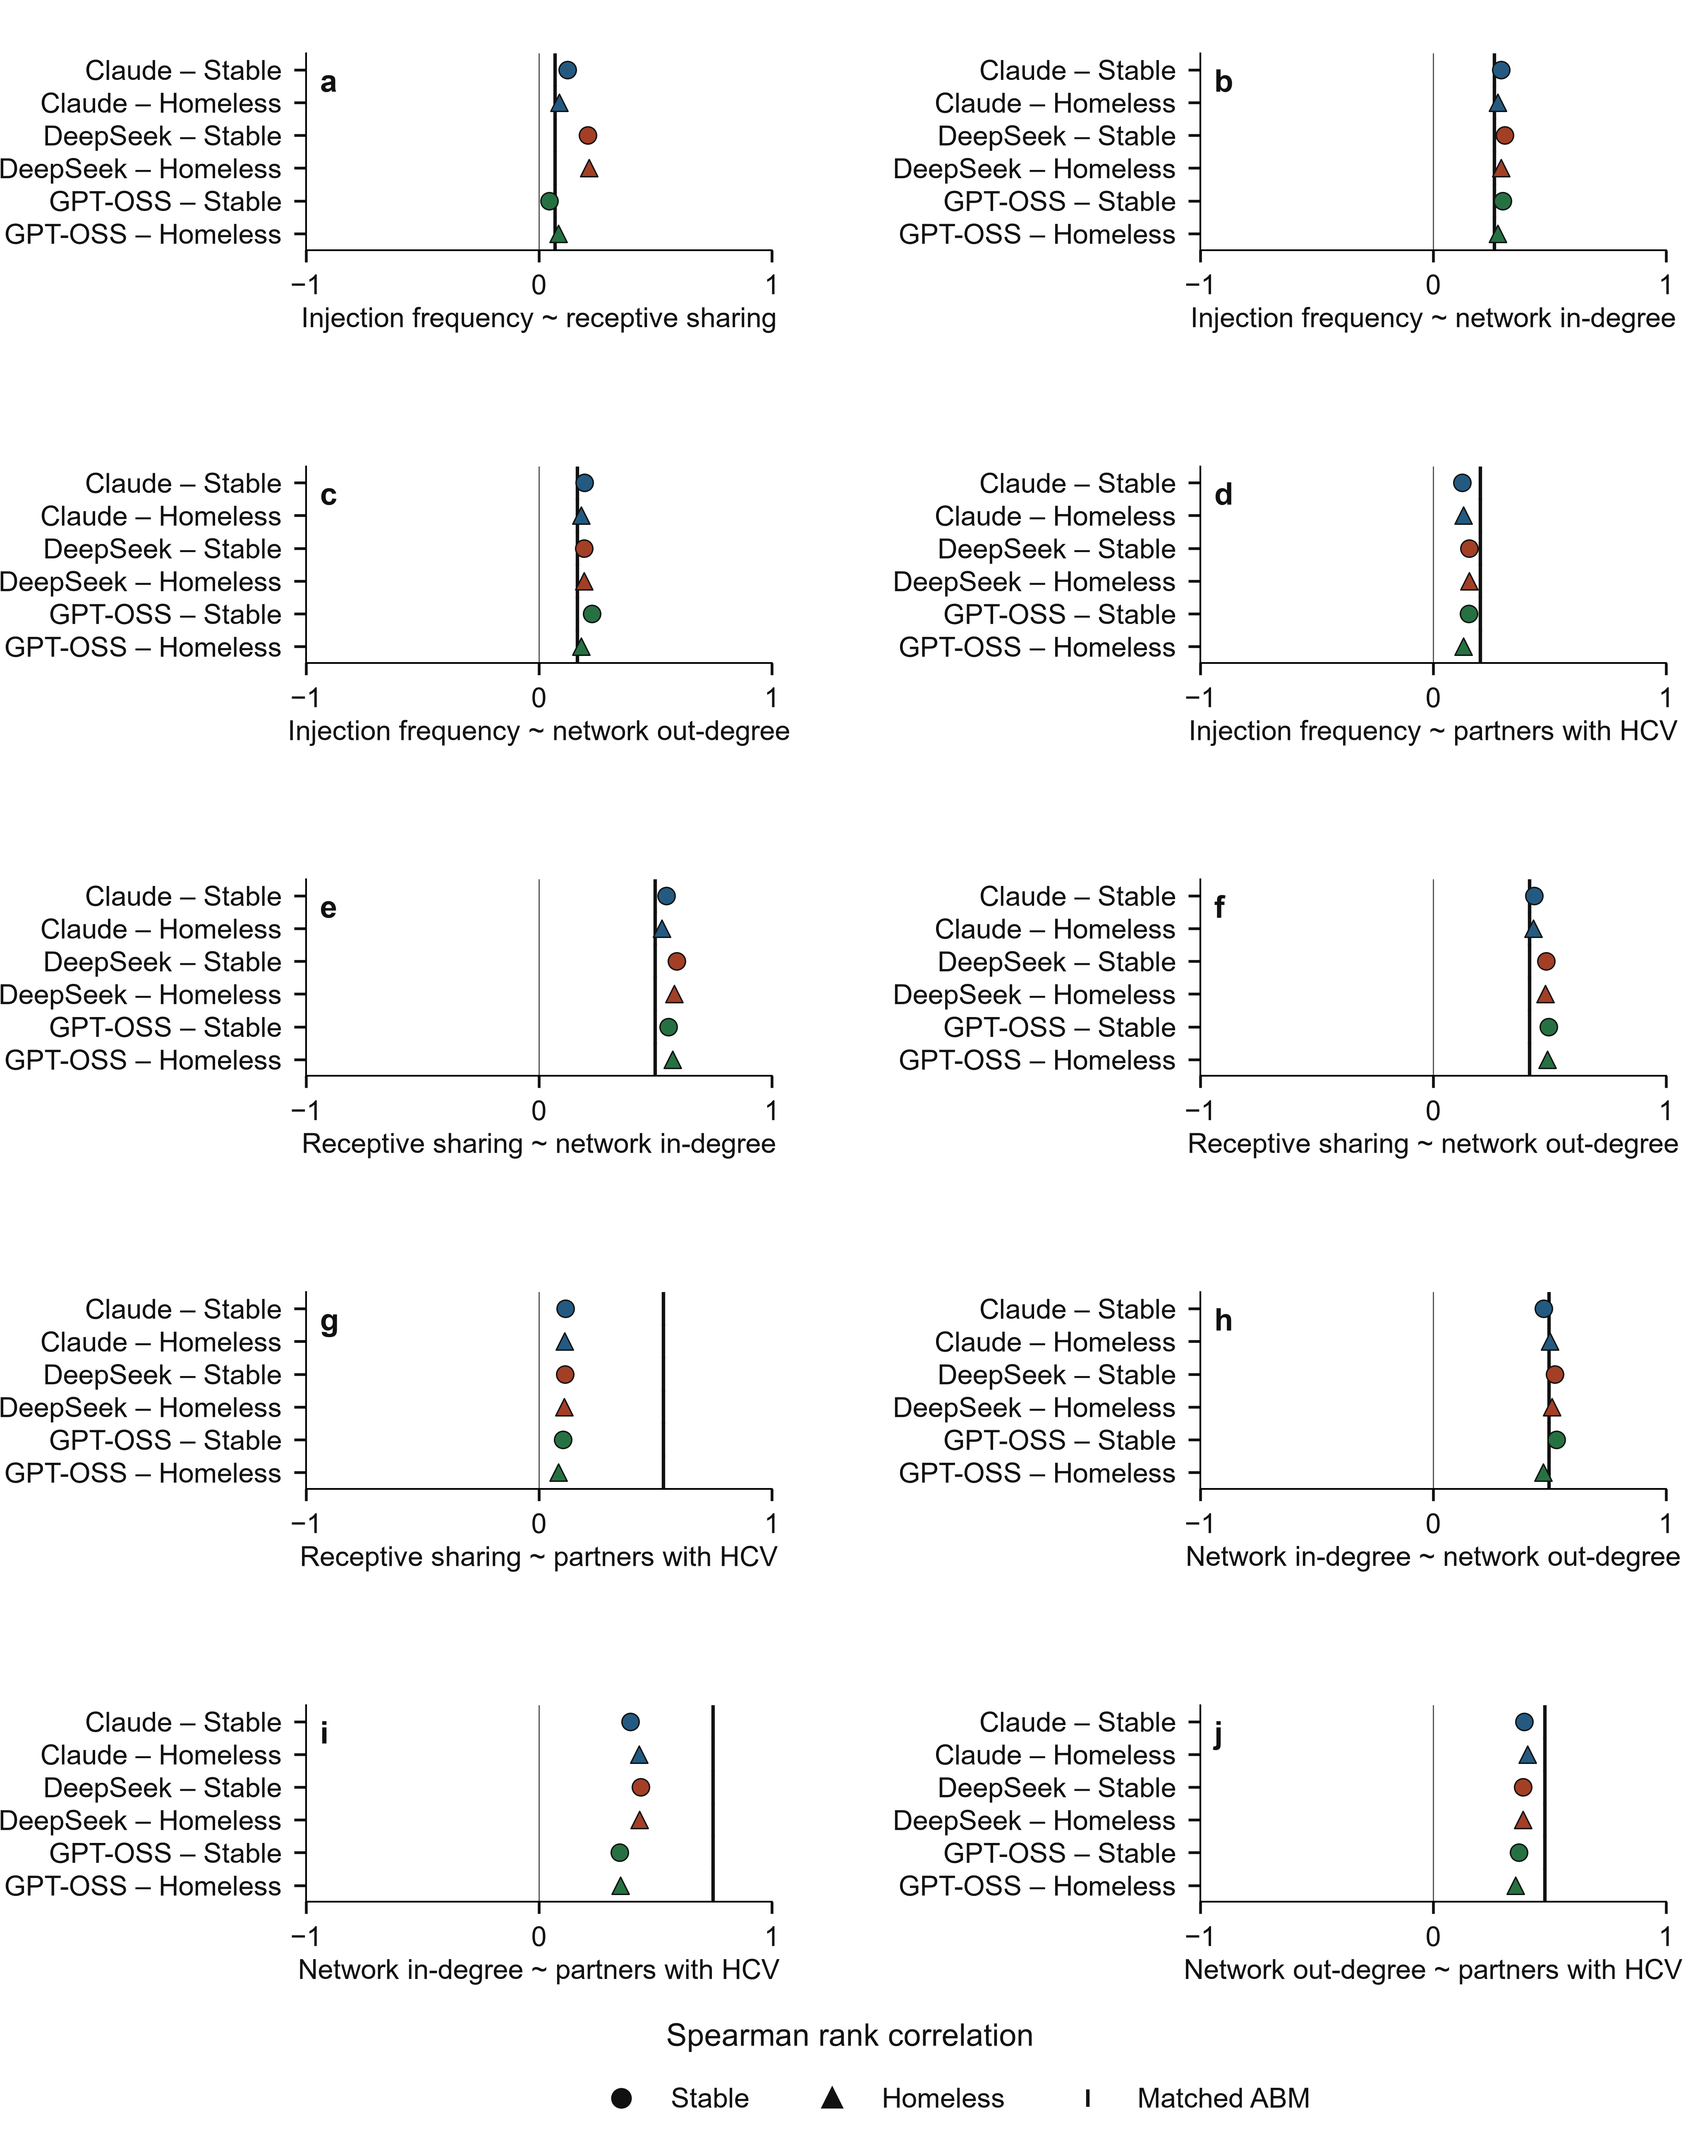
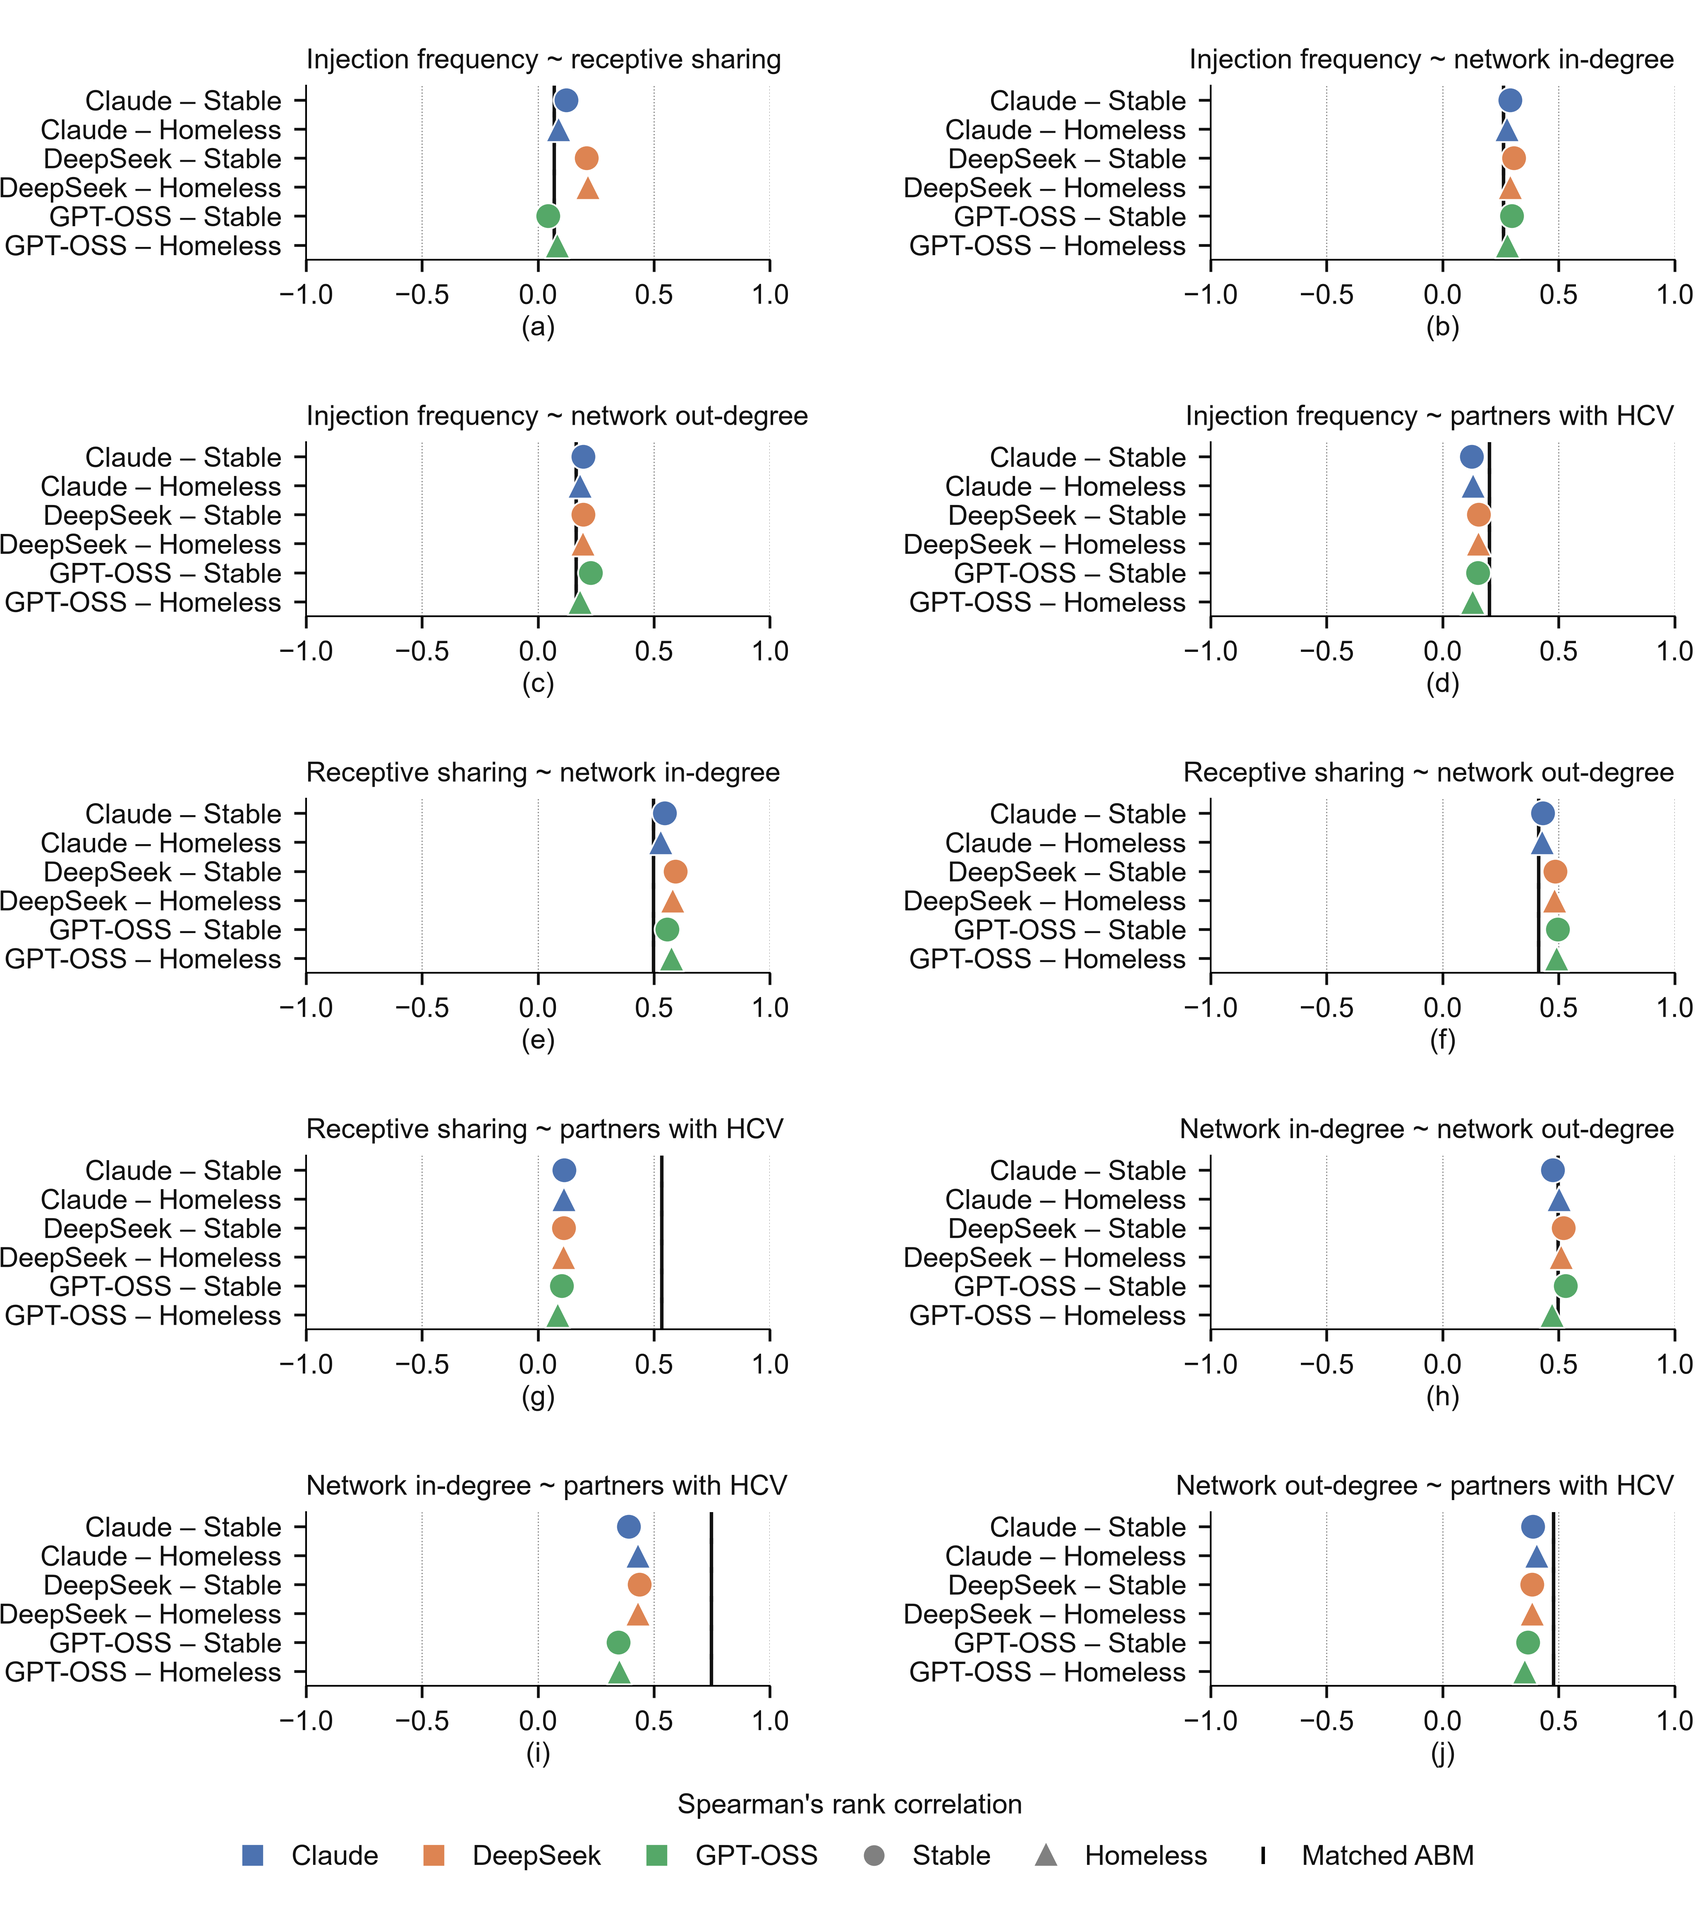
Restore earlier figure styling at final publication font sizes

diff --git a/artwork.py b/artwork.py
@@ -119,9 +119,10 @@ def _knowledge_text(row):
     lines = [f"{direction} {row.evidence_quality}"]
     if pd.notna(row.value):
         measure = "" if pd.isna(row.measure) else str(row.measure)
-        lines.append(f"{measure} {row.value:.2f}".strip())
+        estimate = f"{measure} {row.value:.2f}".strip()
         if pd.notna(row.lower_ci) and pd.notna(row.upper_ci):
-            lines.append(f"({row.lower_ci:.2f}–{row.upper_ci:.2f})")
+            estimate += f" ({row.lower_ci:.2f}–{row.upper_ci:.2f})"
+        lines.append(estimate)
     return "\n".join(lines)
 
 
@@ -133,18 +134,18 @@ def draw_association_table(kind, knowledge, housing, correlations):
     """Retain the original banded comparison layout at final publication size."""
     configure_artwork()
     pairs = [pair for pair in EXPECTED if (pair[0] == TERMS["Homeless"]) == (kind == "housing")]
-    # Use taller rows, without changing column widths or shrinking the artwork.
-    # A two-row legend frees vertical space for S1's 23 associations.
+    # Preserve the original compact, banded table style. Allocate more width
+    # to the two-line knowledge cells so estimates and intervals stay together.
     if kind == "housing":
-        row_mm, header_mm, legend_mm = 11, 19, 17.5
+        row_mm, header_mm, legend_mm = 7.5, 23, 17.5
     else:
-        row_mm, header_mm, legend_mm = 9, 16.4, 7.5
+        row_mm, header_mm, legend_mm = 6.5, 23, 21
     margin_mm = 1.5
     height = 2*margin_mm + header_mm + row_mm*len(pairs) + legend_mm
     fig = plt.figure(figsize=(WIDTH_MM/MM_PER_INCH, height/MM_PER_INCH), dpi=100)
     ax = fig.add_axes([0, 0, 1, 1])
     ax.set_xlim(0, WIDTH_MM); ax.set_ylim(0, height); ax.axis("off")
-    left, label_w, expected_w, knowledge_w, output_w = 1.5, 52.8, 8, 17.2, 19.2
+    left, label_w, expected_w, knowledge_w, output_w = 1.5, 30.2, 6, 27.2, 17.4
     knowledge_x = left+label_w+expected_w
     output_x = knowledge_x+3*knowledge_w+1
     body_top = height-margin_mm-header_mm
@@ -165,13 +166,14 @@ def draw_association_table(kind, knowledge, housing, correlations):
         for j, label in enumerate(headers):
             ax.text(origin+(j+.5)*width, height-9, label, ha="center", va="center",
                     fontsize=8, linespacing=1)
-    ax.add_patch(Rectangle((left, body_top+.45), WIDTH_MM-2*left, 5.2,
+    ax.add_patch(Rectangle((left, body_top+.45), WIDTH_MM-2*left, 9,
                            facecolor="#B0B8C4", edgecolor="none"))
-    ax.text(knowledge_x+1.5*knowledge_w, body_top+3, "Direction + evidence + estimate",
-            ha="center", va="center", fontsize=8, style="italic")
-    method = "Paired $d_z$ + 95% bootstrap CI" if kind == "housing" else "Spearman's rank correlation"
-    ax.text(output_x+1.5*output_w, body_top+3, method,
-            ha="center", va="center", fontsize=8, style="italic")
+    ax.text(knowledge_x+1.5*knowledge_w, body_top+5,
+            "Direction + LLM-rated evidence strength\n+ LLM-derived association estimate",
+            ha="center", va="center", fontsize=8, style="italic", linespacing=1.1)
+    method = "Paired Cohen's $d_z$\n+ 95% bootstrap CI" if kind == "housing" else "Spearman's rank correlation"
+    ax.text(output_x+1.5*output_w, body_top+5, method,
+            ha="center", va="center", fontsize=8, style="italic", linespacing=1.1)
 
     def background(x, y, width, row_height, status):
         patch = Rectangle((x, y), width, row_height, facecolor=palette[status],
@@ -191,7 +193,7 @@ def draw_association_table(kind, knowledge, housing, correlations):
         background(x+.2, y+.2, width-.4, row_mm-.4, status)
         lines = text.split("\n")
         # Keep the direction/effect at 8 pt and reduce only estimate/CI detail.
-        spacing_mm = 2.85 if kind == "housing" else 2.6
+        spacing_mm = 2.8
         for index, line in enumerate(lines):
             offset = ((len(lines)-1)/2-index)*spacing_mm
             artist = ax.text(x+width/2, y+row_mm/2+offset, line, ha="center", va="center",
@@ -208,9 +210,12 @@ def draw_association_table(kind, knowledge, housing, correlations):
                                    facecolor="#F0F4F8", edgecolor="none", zorder=0))
         ax.add_patch(Rectangle((left+label_w, y), expected_w, row_mm,
                                facecolor="#ECEFF1", edgecolor="none", zorder=0))
-        label = ax.text(left+.3, y+row_mm/2,
-                        _pair_label(a, b), ha="left", va="center",
-                        fontsize=8, color="#000000", zorder=3)
+        # Keep each variable intact; wrap only at the pair separator when needed.
+        label_text = _pair_label(a, b)
+        label = ax.text(left+.3, y+row_mm/2, label_text, ha="left", va="center",
+                        fontsize=8, color="#000000", zorder=3, linespacing=1.05)
+        if label.get_window_extent(fig.canvas.get_renderer()).width > (label_w-.6)*fig.dpi/MM_PER_INCH:
+            label.set_text(label_text.replace(" ~ ", " ~\n"))
         cell_records.append((label, label_w-.6, row_mm-.4))
         ax.text(left+label_w+expected_w/2, y+row_mm/2, expected,
                 ha="center", va="center", fontsize=10, color="#000000", zorder=3)
@@ -248,12 +253,7 @@ def draw_association_table(kind, knowledge, housing, correlations):
     if kind == "housing":
         legend = [item for item in legend if item[0] != "uncertain"]
     for index, (status, label) in enumerate(legend):
-        if kind == "housing":
-            x, y = left+2, legend_mm-3.2-index*3.5
-        else:
-            positions = [(0, 5.6), (56, 5.6), (112, 5.6), (0, 2.1), (82, 2.1)]
-            offset_x, y = positions[index]
-            x = left+2+offset_x
+        x, y = left+2, legend_mm-3.2-index*3.5
         background(x, y-1, 7, 2, status)
         ax.text(x+8.5, y, label, va="center", fontsize=8, color="#000000", zorder=3)
 
@@ -304,23 +304,28 @@ def plot_abm_correlations(results):
     frame = frame.sort_values(["ModelLabel", "Housing"]).reset_index(drop=True)
     labels = frame.ModelLabel.astype(str)+" – "+frame.HousingLabel
     cols = ["Injections", "Recept_sharing", "Drug_in", "Drug_out", "Partner_HCV_prop"]
-    fig, axes = plt.subplots(5, 2, figsize=(WIDTH_MM/MM_PER_INCH, 220/MM_PER_INCH))
-    fig.subplots_adjust(left=.18, right=.98, top=.975, bottom=.115, hspace=1.1, wspace=.92)
-    colors = {"Claude":"#245A81", "DeepSeek":"#A33F25", "GPT-OSS":"#267142"}
+    fig, axes = plt.subplots(5, 2, figsize=(WIDTH_MM/MM_PER_INCH, 195/MM_PER_INCH))
+    fig.subplots_adjust(left=.18, right=.985, top=.955, bottom=.115, hspace=1.05, wspace=.95)
+    colors = {"Claude":"#4C72B0", "DeepSeek":"#DD8452", "GPT-OSS":"#55A868"}
     for letter, ax, (a,b) in zip("abcdefghij", axes.flat, combinations(cols,2)):
         y = np.arange(len(frame))
         ax.scatter(frame[f"assoc_ABM_{a}__{b}"], y, marker="|", s=100, color="#111111", linewidths=1, zorder=2)
         for i, row in frame.iterrows():
-            ax.scatter(row[f"assoc_LLM_{a}__{b}"], i, marker="o" if row.Housing==0 else "^", s=25,
-                       color=colors[row.ModelLabel], edgecolors="#111111", linewidths=.4, zorder=3)
+            ax.scatter(row[f"assoc_LLM_{a}__{b}"], i, marker="o" if row.Housing==0 else "^", s=55,
+                       color=colors[row.ModelLabel], edgecolors="white", linewidths=.5, zorder=3)
         ax.set_yticks(y, labels, fontsize=8); ax.set_ylim(-.5,len(frame)-.5); ax.invert_yaxis()
-        ax.set_xlim(-1,1); ax.set_xticks([-1,0,1])
-        ax.set_xlabel(_pair_label(a, b), fontsize=8, labelpad=2)
-        ax.axvline(0, linewidth=.35, color="#555555", zorder=0)
+        ax.set_xlim(-1,1); ax.set_xticks([-1,-.5,0,.5,1])
+        title_location = "left" if ax in axes[:,0] else "right"
+        ax.set_title(_pair_label(a, b), fontsize=8, loc=title_location, pad=5)
+        ax.grid(axis="x", linestyle=":", color="#888888", linewidth=.35)
         ax.spines[["top", "right"]].set_visible(False)
-        ax.text(.03,.92,letter,transform=ax.transAxes,va="top",fontsize=9,weight="bold")
-    fig.supxlabel("Spearman rank correlation", fontsize=9, y=.045)
-    handles = [plt.Line2D([],[],marker=mark,linestyle="",color="#111111",label=label,markersize=5)
+        ax.text(.5,-.32,f"({letter})",transform=ax.transAxes,ha="center",va="top",fontsize=8)
+    fig.supxlabel("Spearman's rank correlation", fontsize=8, y=.045)
+    model_handles = [plt.Line2D([],[],marker="s",linestyle="",color=color,label=model,markersize=5)
+                     for model,color in colors.items()]
+    handles = [plt.Line2D([],[],marker=mark,linestyle="",color="gray" if mark != "|" else "black",
+                         label=label,markersize=5)
                for mark,label in [("o","Stable"),("^","Homeless"),("|","Matched ABM")]]
-    fig.legend(handles=handles, loc="lower center", ncol=3, frameon=False, bbox_to_anchor=(.56,.005), fontsize=8)
+    fig.legend(handles=model_handles+handles, loc="lower center", ncol=6, frameon=False,
+               bbox_to_anchor=(.5,.005), fontsize=8, columnspacing=1, handletextpad=.4)
     export_artwork(fig, "FigS2")
